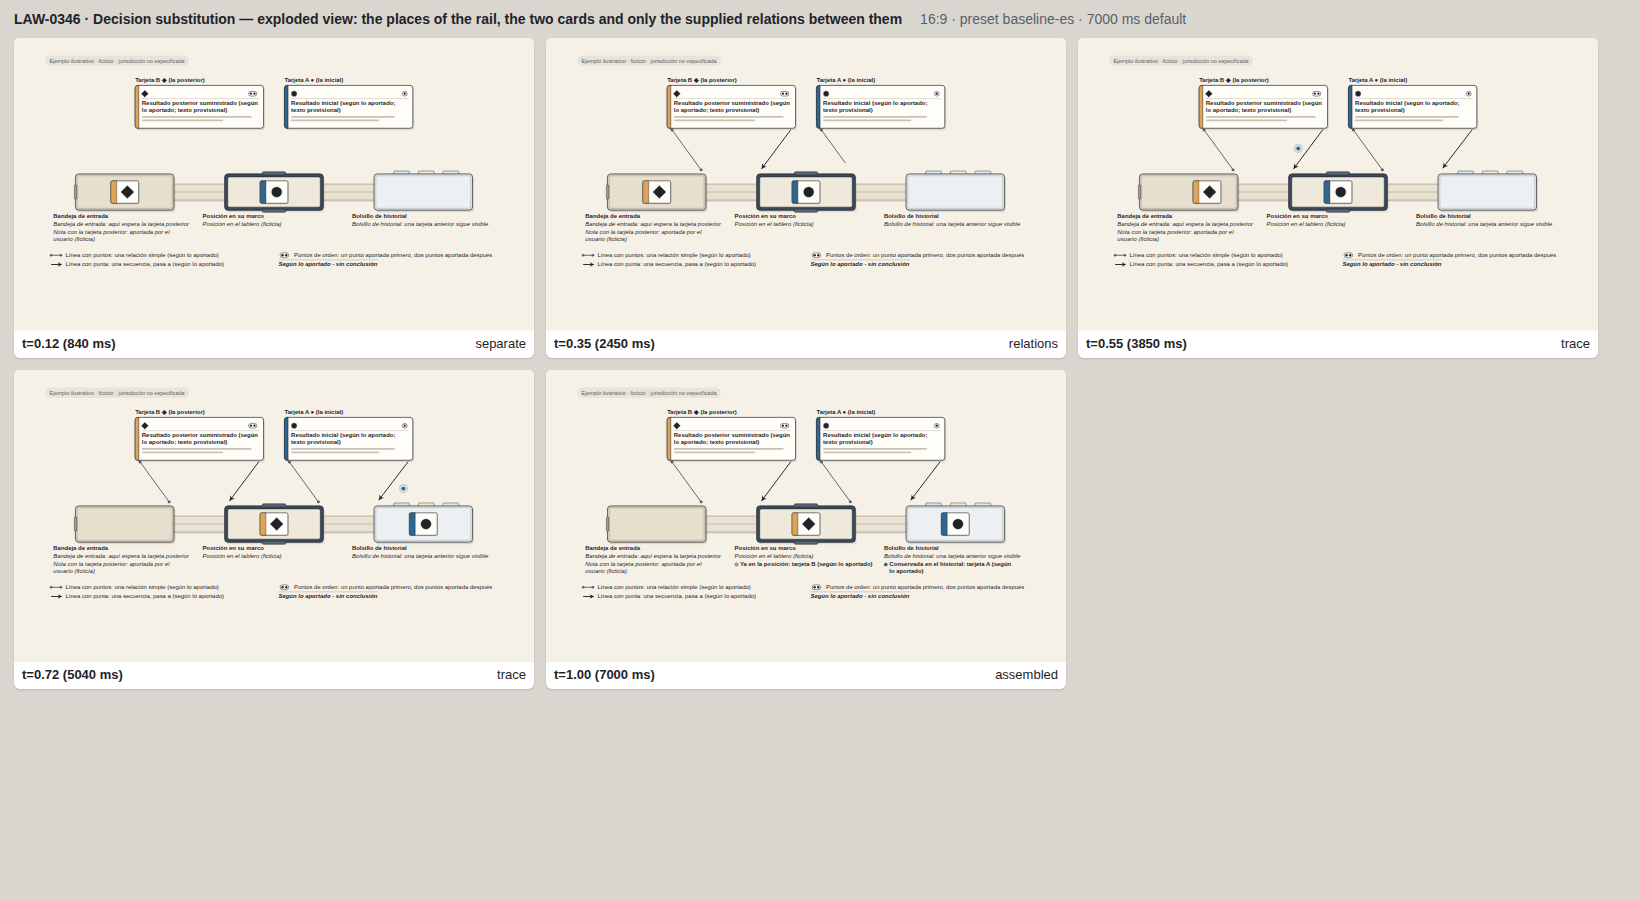
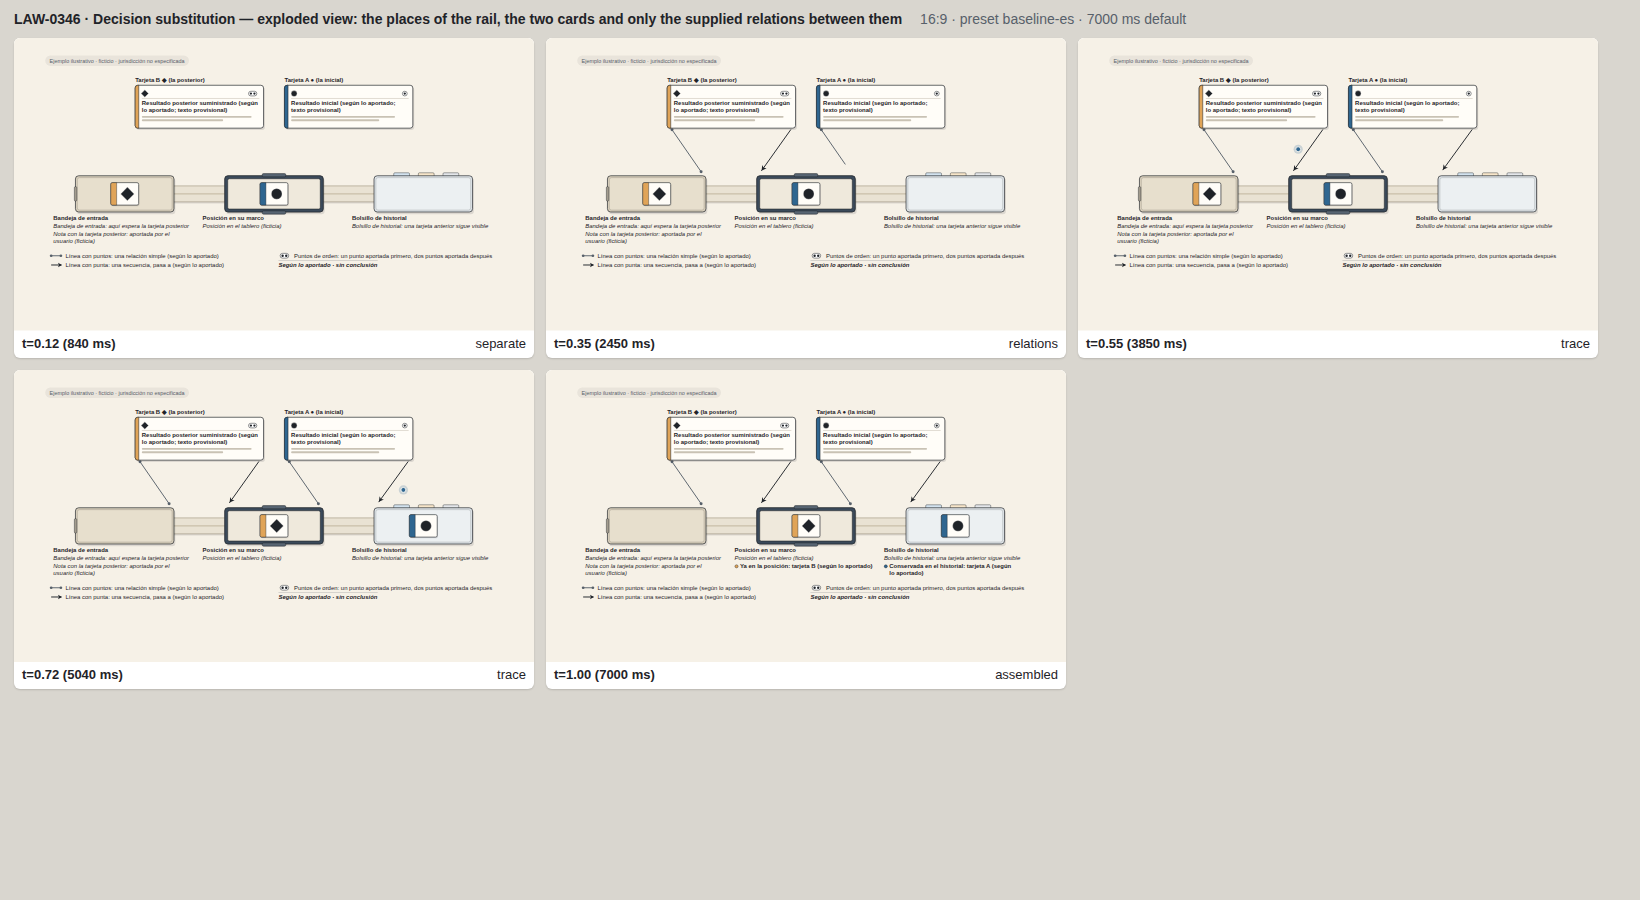
WIP: agent work in progress

diff --git a/src/animations/review/kits/cierre-de-itinerario.js b/src/animations/review/kits/cierre-de-itinerario.js
@@ -381,7 +381,9 @@ export function planBounds(pl) {
 export function trackNode(ctx, rt, D, o) {
   return g({name: o.prefix},
     h('path', {d: rt.d, fill: 'none', stroke: SLATE, 'stroke-width': r(D.tw + 4, 2), 'stroke-linejoin': 'round', 'stroke-linecap': 'butt'}),
-    h('path', {d: rt.d, fill: 'none', stroke: TRACK, 'stroke-width': r(D.tw, 2), 'stroke-linejoin': 'round', 'stroke-linecap': 'butt'}));
+    h('path', {d: rt.d, fill: 'none', stroke: TRACK, 'stroke-width': r(D.tw, 2), 'stroke-linejoin': 'round', 'stroke-linecap': 'butt'}),
+    // printed direction marks of the way as drawn in the file (pale slate, the same on every route: they carry no state)
+    o.marks === false ? null : g(null, rt.chev.map(c => chevron(D, {transform: T(c.x, c.y, c.a), stroke: '#9aa5b1'}))));
 }
 
 /** Ink laid along a track as it is traced (dash-revealed). Named `${prefix}`. */
@@ -392,7 +394,7 @@ export function inkNode(ctx, rt, D, o) {
 /** A direction chevron (local origin = centre, pointing +x). */
 export function chevron(D, o = {}) {
   const k = D.tw * 0.3;
-  return h('path', {name: o.name, d: `M${r(-k * 0.7)} ${r(-k)}L${r(k * 0.5)} 0L${r(-k * 0.7)} ${r(k)}`, fill: 'none', stroke: '#fff', 'stroke-width': r(Math.max(2.4, D.tw * 0.16), 2), 'stroke-linecap': 'round', 'stroke-linejoin': 'round', transform: o.transform, opacity: o.opacity});
+  return h('path', {name: o.name, d: `M${r(-k * 0.7)} ${r(-k)}L${r(k * 0.5)} 0L${r(-k * 0.7)} ${r(k)}`, fill: 'none', stroke: o.stroke || '#fff', 'stroke-width': r(Math.max(2.4, D.tw * 0.16), 2), 'stroke-linecap': 'round', 'stroke-linejoin': 'round', transform: o.transform, opacity: o.opacity});
 }
 
 /**

diff --git a/src/animations/causation/LAW-0714.js b/src/animations/causation/LAW-0714.js
@@ -94,7 +94,7 @@ const defaultParamsEs = {
 const MARGIN = 10;
 const SHAPES = {
   landscape: {size: 26, minSize: 17, modes: ['row', 'rowcol'], rws: [420, 480, 540, 600]},
-  square: {size: 24, minSize: 17, modes: ['row', 'rowcol', 'stack'], rws: [340, 380, 420, 480, 540]},
+  square: {size: 24, minSize: 17, modes: ['band', 'row', 'rowcol', 'stack'], rws: [340, 380, 420, 480, 540]},
   portrait: {size: 25, minSize: 17, modes: ['stack', 'band'], rws: [460, 520, 620, 720, 930]},
 };
 
@@ -257,7 +257,7 @@ function compose(ctx, base, cfg) {
   if (band.bad || leftBand.bad) return {bad: 'band'};
   // (band mode packs tighter — gaps of 12 above the key band and 22 under the top band — so the ring pieces keep the
   // subject floor in square boxes)
-  const bandGap = mode === 'band' ? 12 : 18, topGap = mode === 'band' ? 22 : 30;
+  const bandGap = mode === 'band' ? 12 : 18, topGap = mode === 'band' ? 70 : 30;
   const bandH = band.h && mode !== 'rowcol' ? band.h + bandGap : 0;
   const bandColH = band.h && mode === 'rowcol' ? band.h + 18 : 0;
   // relation label height budget (one chip line)
